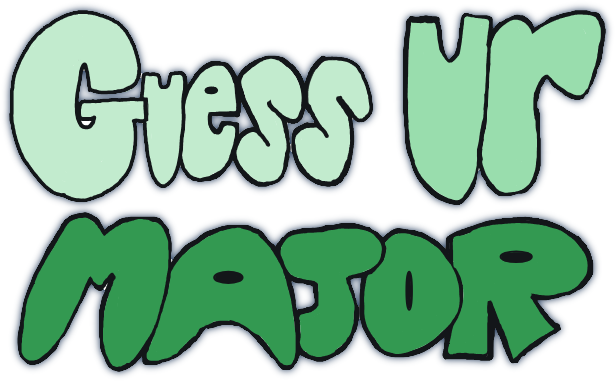
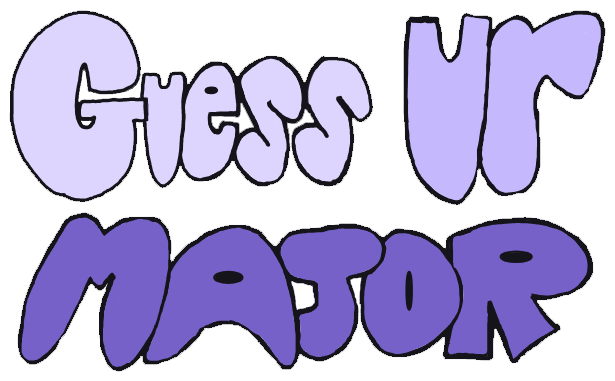
CSS Update

diff --git a/css/master.css b/css/master.css
@@ -5,8 +5,9 @@ body {
     justify-content: center;
     height: 100vh;
     margin: 0;
-    background: radial-gradient(farthest-corner, #F1FAEE, #A8DADC, #457B9D, #1D3557);
-    background-color: #1D3557;
+    background-image: url(https://images4.alphacoders.com/132/1327987.png); /*Image Credit: Google*/
+    background-size: cover;
+    /* background-color: #DEE2FF; */
     overflow: hidden; /* Prevents the radial gradient from overflowing */
 }
 
@@ -19,6 +20,7 @@ body {
     position: relative;
     width: 615px;
     height: 381px;
+    bottom: 100px;
     background-image: url(../img/main-title.png);
     background-size: contain;
     transition: transform .1s ease-in-out;
@@ -28,22 +30,23 @@ body {
 #tutorial-screen {
     position: absolute;
     top: -200px;
-    color: #E63946;
+    color: #495057;
     background-color: #f1faeef5;
-    border: solid 2px #E63946;
+    border: solid 3px #CBC0D3;
     padding: 25px;
     border-radius: 1em;
     font-size: 1.5em;
     transition: all 0.3s ease;
 }
+
 #tutorial-screen {
     position: absolute;
     top: 50%;
     left: 50%;
     transform: translate(-50%, -50%);
-    color: #E63946;
+    color: #495057;
     background-color: #f1faeef5;
-    border: solid 2px #E63946;
+    border: solid 3px #CBC0D3;
     padding: 25px;
     border-radius: 1em;
     font-size: 1.5em;
@@ -77,15 +80,15 @@ body {
     top: 50%;
     left: 50%;
     transform: translate(-50%, -50%);
-    color: #F1FAEE;
-    background-color: #1D3557;
-    border: solid 2px #F1FAEE;
+    color: #495057;
+    border: solid 2px #4a4e69;
     padding: 15px;
     border-radius: 1em;
     font-size: 1.5em;
     transition: all 0.3s ease;
     z-index: 1001; /* Ensure the tutorial box appears on top of the button */
     width: 200%; /* Adjusted the width to 60% of the viewport width */
+    background: rgba(255, 255, 255, 0.8)
 }
 
 #questions-screen h2 {
@@ -115,15 +118,15 @@ body {
     top: 50%;
     left: 50%;
     transform: translate(-50%, -50%);
-    color: #F1FAEE;
-    background: radial-gradient(farthest-side, #457B9D, #1D3557);
-    border: solid 2px #F1FAEE;
+    color: #495057;
+    border: solid 2px #4a4e69;
     padding: 15px;
     border-radius: 1em;
     font-size: 1.5em;
     transition: all 0.3s ease;
     z-index: 1001;
     width: 200%; /* Adjusted the width to 60% of the viewport width */
+    background: rgba(255, 255, 255, 0.8)
 }
 
 /* Button Appearance */
@@ -134,31 +137,41 @@ button {
     font-family: 'Justy Three', sans-serif;
     font-weight: bold;
     border-radius: 1em;
-    color: #1D3557;
-    background-color: #F1FAEE;
-    border: solid 2px #1D3557;
+    color: #495057;
+    background-color: #e7e6f7;
+    border: solid 2px #4a4e69;
     box-shadow: 1px 2px 5px #1D3557;
 }
 
 /* Changes appearance of only the play button */
 #play {
-    font-size: 2em;
-    width: 50%;
-    padding: 10px;
-    transition: all 0.3s ease;
+    width: 250px;
+    height: 56px;
+    position: fixed;
+    bottom: 25vh;
+    left: 92vh;
+    background-image: url(../img/play.png);
+    background-size: contain;
+    background-repeat: no-repeat;
+    filter: drop-shadow(1px 1px 3px #1D3557);
+    transition: transform .1s ease-in-out;
+    z-index: 1000;
 }
 
 /* Changes appearance of only the tutorial button */
 
 #tutorial-button {
-    color: #F1FAEE;
-    background-color: #E63946;
-    border: solid 2px #F1FAEE;
-    box-shadow: 1px 2px 5px #1D3557;
-    font-size: 1.5em;
-    width: 50%;
-    padding: 7px;
-    transition: all 0.3s ease;
+    width: 295px;
+    height: 88px;
+    position: fixed;
+    bottom: 10vh;
+    left: 89.3vh;
+    background-image: url(../img/tutorial.png);
+    background-size: contain;
+    background-repeat: no-repeat;
+    filter: drop-shadow(1px 1px 3px #1D3557);
+    transition: transform .1s ease-in-out;
+    z-index: 1000;
 }
 
 /* Changes appearance of button when mouse hovers over it */
@@ -169,11 +182,9 @@ button {
 
 /* Simulates pressing the button */
 .buttonClick {
-    color: #F1FAEE;
-    background-color: #457B9D;
-    border: solid 2px #F1FAEE;
-    box-shadow: inset 0px 0px 10px #1D3557;
+    text-shadow: inset 0px 0px 10px #1D3557;
     transform: scale(1);
+    user-select: none;
 }
 
 /* Settings Appearance */
@@ -190,10 +201,11 @@ button {
     position: fixed;
     bottom: 3vh;
     right: 3vh;
-    width: 250px;
-    height: 88px;
-    background-image: url(../img/menu-icon.png);
+    width: 200px;
+    height: 73px;
+    background-image: url(../img/menu.png);
     background-size: contain;
+    background-repeat: no-repeat;
     filter: drop-shadow(1px 1px 3px #1D3557);
     transition: transform .1s ease-in-out;
     z-index: 1002;
@@ -201,12 +213,13 @@ button {
 
 #setting-icon {
     position: fixed;
-    bottom: 12vh;
-    right: 3vh;
-    width: 250px;
-    height: 100px;
-    background-image: url(../img/settings-icon.png);
+    bottom: 15vh;
+    right: 4vh;
+    width: 200px;
+    height: 65px;
+    background-image: url(../img/settings.png);
     background-size: contain;
+    background-repeat: no-repeat;
     filter: drop-shadow(1px 1px 3px #1D3557);
     transition: transform .1s ease-in-out;
     z-index: 1001;

diff --git a/index.html b/index.html
@@ -2,7 +2,7 @@
 <html>
 <head>
 	<!-- For tabs/bookmarks -->
-	<title>Guess Ur Major</title>
+	<title>ART101 Final: Guess Ur Major</title>
 
 	<!-- UTF character set -->
 	<meta charset="UTF-8" />
@@ -31,11 +31,14 @@
 			<div id="tutorial-screen" class="hide">
 				<h2>Tutorial</h2>
 				<div id="tutorial-exit" class="icon">X</div>
-				<p>Lorem ipsum dolor sit amet, consectetur adipiscing elit. Sed luctus felis et dignissim vestibulum. Aenean rutrum elementum urna vitae blandit. 
-					Donec eget porta massa. Duis aliquam mollis nunc at sagittis. Nam urna lorem, condimentum at odio vitae, vulputate pharetra metus. Aenean id 
-					facilisis eros. Nunc faucibus feugiat magna sit amet aliquet. Sed pellentesque, ligula non gravida placerat, odio nisi ornare lacus, non 
-					bibendum nunc massa eu risus. Vivamus finibus fringilla egestas. Vivamus feugiat luctus neque nec tempor. Cras tempus congue luctus. Praesent 
-					placerat urna erat, eget vulputate nisl gravida at. Nulla elit tellus, cursus a sodales et, pretium eu massa.
+				<p>Welcome to "Guess Ur Major" where you answer a series of questions and our AI will sort your answers and return you
+					what your assumed major is. Try your best to answer the questions truthfully so that the AI will be able to accurately
+					guess your major.
+					<br><br>
+					The purpose of this game is to combat major stereotypes and show users the hidden bias of each
+					major. During our ideation process, this phenomenon of major stereotypes was one of the things that came up and we 
+					ended up deciding to base our project on it. By the end of the process, our project became a quiz game that guesses 
+					your major based on stereotypes that we have coded into the game.
 				</p>
 			</div>
 			<div id="questions-screen" class="hide">
@@ -53,8 +56,8 @@
 			<div id="landing-page">
 				<!-- Placeholder Title -->
 				<h1 id="main-title"></h1> 
-				<button id="play">Play?</button><br><br>
-				<button id="tutorial-button">Tutorial</button>
+				<div id="play" class="icon"></div>
+				<div id="tutorial-button" class="icon"></div>
 			</div>
 			<div id="menu">
 				<!-- Placeholder Settings Icon -->
